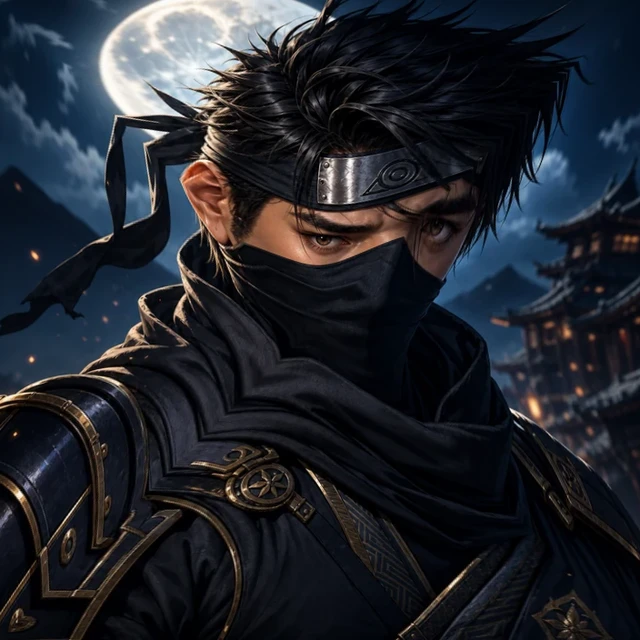
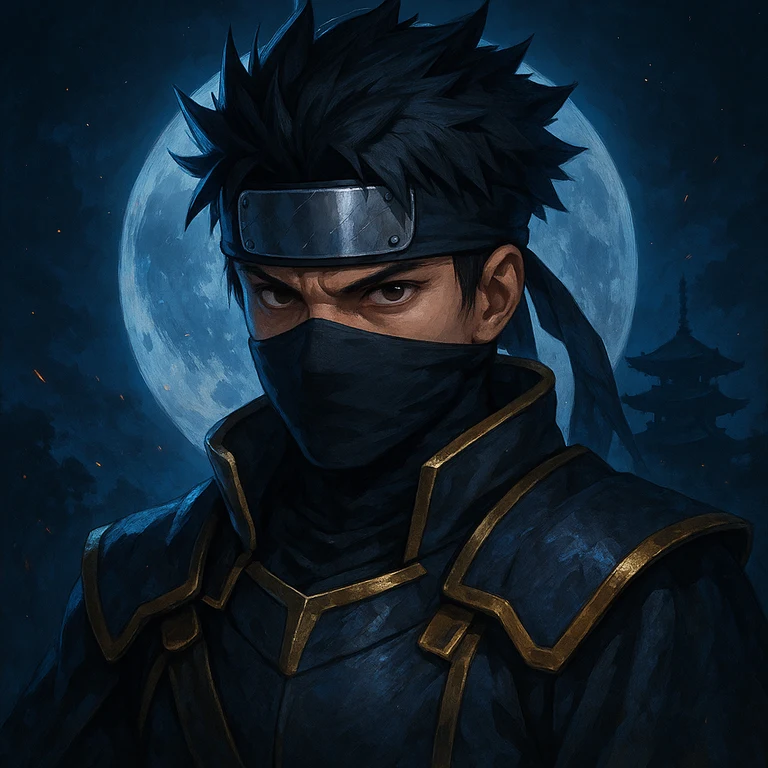
Cinematic v3: bespoke deity art + full cinematography pass
Generated via the owner's gpt-image pipeline (key from shinobij.client/.env,
never committed):
- Shiranui is now a true shrine god: a bespoke seated white kitsune deity
  cutout (robes, red ritual markings, nine fanned tails, transparent bg)
  matching the owner's reference — the pet-pose stand-in is retired. Golden
  halo ring repositioned behind its head; glow filters rebuilt for
  pre-colored art (no more invert trick); it brightens while speaking.
- Bespoke waterfall-shrine sanctuary backdrops (landscape + portrait):
  torii gate at the foot of the falls, cherry blossoms, mist, lanterns —
  replacing the borrowed card-clash/sector art.
- Starter avatars fully regenerated as full-bleed square portraits (the
  polar-warped medallions are gone); same filenames so saves, creator,
  cinematic, and profile all pick them up.

Cinematography:
- Letterbox bars during dialogue beats (slide away for the pet choice,
  hidden on small screens; dialogue box rides above the bottom bar).
- One-shot opening title card ("Beyond the Veil — The Awakening").
- Beat-driven color grade: violet omen wash during the Hollow Gate vision,
  pale elegy light for the farewell.
- Stage rumble on "It sleeps no longer" (script gained a rumble flag).
- Slow camera push-in on the actors while the fox speaks.
- Narrator opening replaced with the owner's lines: "Once they carried the
  breath of spring. Now they only carry the memory."
[…]

diff --git a/shinobij.client/src/features/intro-cinematic/intro-cinematic.css b/shinobij.client/src/features/intro-cinematic/intro-cinematic.css
@@ -188,43 +188,43 @@
 
 /* ── Actors ─────────────────────────────────────────────────────────────── */
 
-/* The ancient spirit fox: the bundled Eclipse Kitsune pose given a spectral
-   white treatment (invert flips the black coat to moonlight white; the
-   hue-rotate swings the inverted blue eye-glow back toward gold). Deity
-   presence: towering scale, a pulsing sacred halo ring behind it, and a slow
-   materialization entrance — it should read as a shrine god, not a pet. */
+/* The ancient spirit fox: a bespoke seated white kitsune deity cutout
+   (features/intro-cinematic/assets/shiranui.webp — robes, red ritual
+   markings, nine fanned tails). Deity presence: towering scale, a pulsing
+   sacred halo ring behind its head, spirit-light pool beneath, and a slow
+   materialization entrance — a shrine god, not a pet. */
 .icx-fox {
     position: absolute;
-    left: clamp(2%, 9vw, 14%);
-    bottom: 29%;
-    width: clamp(260px, 46vmin, 520px);
+    left: clamp(2%, 8vw, 13%);
+    bottom: 24%;
+    width: clamp(240px, 40vmin, 480px);
     pointer-events: none;
     animation: icx-fox-float 11s ease-in-out infinite;
 }
-/* Sacred halo — a bright ring + ambient disc floating behind the fox. */
+/* Sacred halo — a bright ring + ambient disc behind the deity's head. */
 .icx-fox::before {
     content: "";
     position: absolute;
     left: 50%;
-    top: 42%;
-    width: 118%;
+    top: 22%;
+    width: 86%;
     aspect-ratio: 1;
     transform: translate(-50%, -50%);
     border-radius: 50%;
     background:
-        radial-gradient(circle, transparent 42%, rgba(190, 227, 254, 0.30) 50%, rgba(240, 249, 255, 0.55) 53%, rgba(190, 227, 254, 0.22) 57%, transparent 65%),
-        radial-gradient(circle, rgba(165, 220, 252, 0.18), transparent 60%);
+        radial-gradient(circle, transparent 42%, rgba(253, 230, 138, 0.28) 50%, rgba(254, 243, 199, 0.5) 53%, rgba(253, 230, 138, 0.2) 57%, transparent 65%),
+        radial-gradient(circle, rgba(254, 240, 200, 0.16), transparent 60%);
     z-index: -1;
     animation: icx-halo-pulse 5.5s ease-in-out infinite;
 }
-/* Spirit-light pool under the fox so it reads grounded, not floating. */
+/* Spirit-light pool under the deity so it reads grounded, not floating. */
 .icx-fox::after {
     content: "";
     position: absolute;
     left: 8%;
     right: 4%;
-    bottom: -4%;
-    height: 14%;
+    bottom: -3%;
+    height: 12%;
     border-radius: 50%;
     background: radial-gradient(ellipse, rgba(165, 220, 252, 0.45), transparent 68%);
     filter: blur(6px);
@@ -235,16 +235,23 @@
     height: auto;
     display: block;
     filter:
-        invert(1) hue-rotate(178deg) brightness(1.12) saturate(0.85)
-        drop-shadow(0 0 20px rgba(240, 249, 255, 0.6))
-        drop-shadow(0 0 64px rgba(125, 211, 252, 0.4));
+        brightness(1)
+        drop-shadow(0 0 18px rgba(240, 249, 255, 0.45))
+        drop-shadow(0 0 60px rgba(186, 220, 252, 0.3));
     transition: opacity 1.6s ease, filter 1.6s ease;
     animation: icx-fox-arrive 1.9s ease-out both;
+}
+/* Speaking: the deity brightens while its words are being written. */
+.icx-fox.is-talking img {
+    filter:
+        brightness(1.1)
+        drop-shadow(0 0 24px rgba(240, 249, 255, 0.6))
+        drop-shadow(0 0 70px rgba(186, 220, 252, 0.4));
 }
 .icx-fox.is-fading img {
     opacity: 0.5;
     filter:
-        invert(1) hue-rotate(178deg) brightness(1.5) saturate(0.5)
+        brightness(1.4)
         drop-shadow(0 0 30px rgba(240, 249, 255, 0.9))
         drop-shadow(0 0 92px rgba(186, 230, 253, 0.65));
 }
@@ -346,13 +353,110 @@
     50%      { box-shadow: 0 0 70px rgba(139, 92, 246, 0.85), 0 18px 60px rgba(0, 0, 0, 0.65); }
 }
 
+/* ── Cinematography layers ──────────────────────────────────────────────── */
+
+/* Beat-driven color grade overlay (violet omen for the Hollow Gate vision,
+   pale elegy light for the fox's farewell). */
+.icx-grade {
+    position: absolute;
+    inset: 0;
+    pointer-events: none;
+    z-index: 4;
+    opacity: 0;
+    transition: opacity 900ms ease;
+}
+.icx-grade.is-omen {
+    opacity: 1;
+    background:
+        radial-gradient(ellipse at 50% 28%, rgba(109, 40, 217, 0.20), transparent 62%),
+        linear-gradient(180deg, rgba(49, 10, 101, 0.28), rgba(2, 4, 10, 0.30));
+}
+.icx-grade.is-elegy {
+    opacity: 1;
+    background: radial-gradient(ellipse at 42% 45%, rgba(224, 242, 254, 0.16), transparent 65%);
+}
+
+/* Cinema letterbox bars (dialogue beats only; hidden on small screens). */
+.icx-letterbox {
+    position: absolute;
+    left: 0;
+    right: 0;
+    height: clamp(26px, 5vh, 54px);
+    background: #020409;
+    z-index: 6;
+    transition: transform 700ms ease;
+    pointer-events: none;
+}
+.icx-letterbox.top { top: 0; transform: translateY(-100%); }
+.icx-letterbox.bottom { bottom: 0; transform: translateY(100%); }
+.icx-letterbox.is-on { transform: translateY(0); }
+
+/* One-shot opening title card. */
+.icx-title {
+    position: absolute;
+    inset: 0;
+    display: flex;
+    flex-direction: column;
+    align-items: center;
+    justify-content: center;
+    gap: 10px;
+    z-index: 7;
+    pointer-events: none;
+    animation: icx-title 4.4s ease both;
+}
+.icx-title-kicker {
+    color: #7dd3fc;
+    font-size: clamp(11px, 1.4vw, 14px);
+    font-weight: 800;
+    letter-spacing: 0.5em;
+    text-transform: uppercase;
+    text-shadow: 0 0 18px rgba(125, 211, 252, 0.6);
+}
+.icx-title-main {
+    font-family: var(--font-display);
+    color: #fde68a;
+    font-size: clamp(30px, 5.4vw, 62px);
+    letter-spacing: 0.08em;
+    text-shadow: 0 0 34px rgba(250, 204, 21, 0.3), 0 2px 10px rgba(0, 0, 0, 0.8);
+}
+@keyframes icx-title {
+    0%   { opacity: 0; transform: scale(0.985); }
+    14%  { opacity: 1; transform: scale(1); }
+    68%  { opacity: 1; }
+    100% { opacity: 0; transform: scale(1.01); }
+}
+
+/* Stage rumble while the Gate stirs. */
+.icx-root.is-rumbling .icx-scene,
+.icx-root.is-rumbling .icx-stagefill {
+    animation: icx-rumble 380ms ease-in-out 3;
+}
+@keyframes icx-rumble {
+    0%, 100% { transform: translate(0, 0); }
+    20%      { transform: translate(-3px, 2px); }
+    45%      { transform: translate(3px, -2px); }
+    70%      { transform: translate(-2px, -2px); }
+    85%      { transform: translate(2px, 2px); }
+}
+
+/* Camera push-in on the actors while the fox speaks. */
+.icx-stagefill {
+    position: absolute;
+    inset: 0;
+    transition: transform 3s ease;
+}
+.icx-stagefill.is-focus {
+    transform: scale(1.035);
+}
+
 /* ── Dialogue box ───────────────────────────────────────────────────────── */
 
 .icx-dialogue {
     position: absolute;
     left: 50%;
     transform: translateX(-50%);
-    bottom: calc(16px + env(safe-area-inset-bottom, 0px));
+    /* Sits just above the bottom letterbox bar on desktop. */
+    bottom: calc(clamp(26px, 5vh, 54px) + 12px + env(safe-area-inset-bottom, 0px));
     width: min(920px, calc(100% - 26px));
     min-height: 128px;
     border-radius: 12px;
@@ -588,11 +692,12 @@
 /* ── Mobile ─────────────────────────────────────────────────────────────── */
 
 @media (max-width: 800px) {
-    .icx-fox { left: 0; bottom: 33%; width: clamp(190px, 56vw, 300px); }
+    .icx-fox { left: 1%; bottom: 33%; width: clamp(160px, 46vw, 250px); }
     .icx-avatar { right: 3%; bottom: 34%; width: clamp(86px, 26vw, 118px); }
     .icx-avatar-name { font-size: 10.5px; padding: 2px 9px; }
     .icx-vision { top: 6%; width: min(26vh, 66vw); }
-    .icx-dialogue { min-height: 138px; padding: 12px 14px 24px; }
+    .icx-letterbox { display: none; }
+    .icx-dialogue { min-height: 138px; padding: 12px 14px 24px; bottom: calc(16px + env(safe-area-inset-bottom, 0px)); }
     .icx-line { font-size: 15px; }
     .icx-pet-grid { grid-template-columns: repeat(auto-fit, minmax(158px, 1fr)); gap: 9px; }
     .icx-pet-card { padding: 11px; }
@@ -624,8 +729,11 @@
     .icx-rays::after,
     .icx-line,
     .icx-vision,
-    .icx-advance {
+    .icx-advance,
+    .icx-title {
         animation: none;
     }
     .icx-fox img { transition: none; }
+    .icx-stagefill { transition: none; }
+    .icx-letterbox { transition: none; }
 }

diff --git a/shinobij.client/src/features/intro-cinematic/IntroCinematic.tsx b/shinobij.client/src/features/intro-cinematic/IntroCinematic.tsx
@@ -35,16 +35,16 @@ import {
     resolveCinematicLine,
     type CinematicLine,
 } from "./introCinematicScript";
-import riverShrineBg from "../../assets/card-clash/loc/river-shrine.webp";
-import waterfallBg from "../../assets/sectors/water.webp";
 import hollowGateArt from "../../assets/card-clash/loc/hollow-gate.webp";
+// Bespoke gpt-image art (see project memory: generated via the owner's
+// image pipeline): the seated white kitsune deity (transparent cutout) and
+// the waterfall-shrine sanctuary backdrops for both orientations.
+import shiranuiArt from "./assets/shiranui.webp";
+import shrineFallsLandscape from "./assets/shrine-falls-landscape.webp";
+import shrineFallsPortrait from "./assets/shrine-falls-portrait.webp";
 import "./intro-cinematic.css";
 
-// The Eclipse Kitsune "recover" pose (bundled, transparent cutout) — a calm
-// standing nine-tails facing the player's avatar, restyled into the white
-// spirit fox via the .icx-fox CSS filter. Same ?v as pet-battle-anim's pose
-// URLs so it shares the browser cache with the coliseum.
-const FOX_ART = "/pet-poses/mythic-0-recover.webp?v=2";
+const FOX_ART = shiranuiArt;
 
 // Bar scales matching the old StarterPetSelect so the standard-band stat leans
 // stay visible at a glance.
@@ -180,13 +180,15 @@ export function IntroCinematic({
     const artFor = (o: StarterPetOption) => petPoseImage(o.pet, sharedImages);
     const revealing = phase.kind === "whiteout" && phase.revealing;
     const showActors = phase.kind === "dialogue";
+    const inDialogue = phase.kind === "dialogue";
+    const rumbling = inDialogue && Boolean(line?.rumble);
 
     return createPortal(
         <div
-            className={`icx-root ${revealing ? "is-revealing" : ""}`}
+            className={`icx-root ${revealing ? "is-revealing" : ""} ${rumbling && !reduced ? "is-rumbling" : ""}`}
             style={{
-                "--icx-bg-landscape": `url(${waterfallBg})`,
-                "--icx-bg-portrait": `url(${riverShrineBg})`,
+                "--icx-bg-landscape": `url(${shrineFallsLandscape})`,
+                "--icx-bg-portrait": `url(${shrineFallsPortrait})`,
             } as React.CSSProperties}
             onClick={advance}
         >
@@ -201,10 +203,27 @@ export function IntroCinematic({
                 </div>
             )}
 
-            <div className="icx-stagefill">
+            {/* Beat-driven color grade: violet omen during the Hollow Gate vision,
+                pale elegy light while the fox's spirit gutters. */}
+            <div className={`icx-grade ${line?.vision ? "is-omen" : ""} ${line?.fading ? "is-elegy" : ""}`} aria-hidden="true" />
+
+            {/* Cinema letterbox bars — dialogue beats only, slide away for the
+                companion choice UI. Hidden on small screens (they eat space). */}
+            <div className={`icx-letterbox top ${inDialogue ? "is-on" : ""}`} aria-hidden="true" />
+            <div className={`icx-letterbox bottom ${inDialogue ? "is-on" : ""}`} aria-hidden="true" />
+
+            {/* One-shot opening title card. */}
+            {!reduced && (
+                <div className="icx-title" aria-hidden="true">
+                    <span className="icx-title-kicker">Beyond the Veil</span>
+                    <span className="icx-title-main">The Awakening</span>
+                </div>
+            )}
+
+            <div className={`icx-stagefill ${inDialogue && line?.speaker === "fox" ? "is-focus" : ""}`}>
                 {showActors && (
                     <>
-                        <div className={`icx-fox ${line?.fading ? "is-fading" : ""}`}>
+                        <div className={`icx-fox ${line?.fading ? "is-fading" : ""} ${line?.speaker === "fox" && !typingDone ? "is-talking" : ""}`}>
                             <img src={FOX_ART} alt={`${FOX_NAME}, the ancient spirit fox`} />
                         </div>
                         <div className="icx-avatar">

diff --git a/shinobij.client/src/features/intro-cinematic/introCinematicScript.ts b/shinobij.client/src/features/intro-cinematic/introCinematicScript.ts
@@ -22,6 +22,8 @@ export type CinematicLine = {
     text: string;
     /** Show the Hollow Gate vision panel while this line plays. */
     vision?: boolean;
+    /** Shake the stage while this line plays (the Gate stirring). */
+    rumble?: boolean;
     /** The fox's spirit is guttering — dims the fox art for the farewell. */
     fading?: boolean;
 };
@@ -29,6 +31,7 @@ export type CinematicLine = {
 // ── Beat 1-3: awakening → warning → gift offer (before pet selection) ────────
 export const PRE_GIFT_LINES: CinematicLine[] = [
     { speaker: "narrator", text: "Falling water. Cold stone. Cherry-blossom petals drifting through pale spirit-light." },
+    { speaker: "narrator", text: "Once they carried the breath of spring. Now they only carry the memory." },
     { speaker: "narrator", text: "You wake at the foot of an ancient shrine — in a place you never entered." },
     { speaker: "fox", label: "???", text: "Open your eyes, young one. Good. The summons held." },
     { speaker: "fox", label: "???", text: "Do not be afraid. You stand beyond the veil, in the last sanctuary of this land — and I am the one who called you." },
@@ -36,7 +39,7 @@ export const PRE_GIFT_LINES: CinematicLine[] = [
     { speaker: "fox", text: "Crossing the veil to reach a soul like yours took the last of my power. I did not spend it lightly." },
     { speaker: "fox", text: "Listen well, for I may not have the strength to say this twice." },
     { speaker: "fox", vision: true, text: "Far beneath this land stands the Hollow Gate — a door that was sealed before your kind first drew breath. For a thousand years, it slept." },
-    { speaker: "fox", vision: true, text: "It sleeps no longer. It stirs. It hungers. Something — or someone — is feeding it." },
+    { speaker: "fox", vision: true, rumble: true, text: "It sleeps no longer. It stirs. It hungers. Something — or someone — is feeding it." },
     { speaker: "fox", text: "My kin held the seal for generations. I am the last of them, and my light is nearly spent. Alone, I cannot hold back what is coming." },
     { speaker: "fox", text: "That is why I called you. I hope — with all that remains of me — that you can help this land." },
     { speaker: "fox", text: "But I will not send you into this world alone." },
